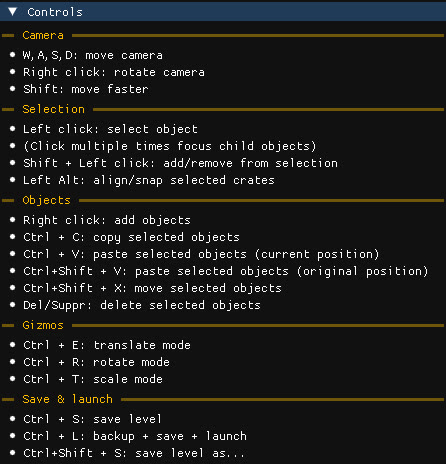
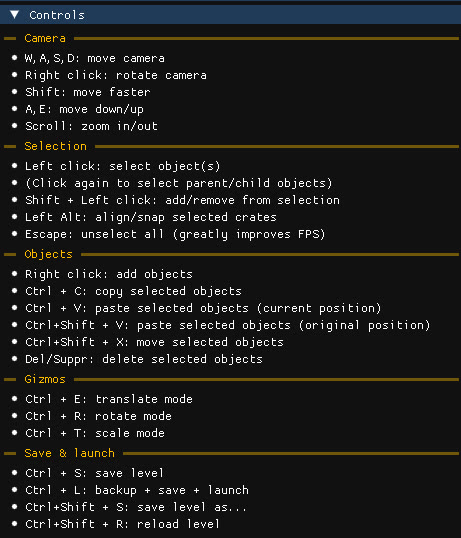
Update level editor documentation

Changed region(s): [[0.0, 0.0, 1.0, 0.9957]]

diff --git a/src/Editor/App.cs b/src/Editor/App.cs
@@ -92,6 +92,9 @@ namespace NST
                 if (ImGui.MenuItem("Open project page (Github)")) {
                     OpenURL("https://github.com/kishimisu/Crash-NST-Level-Editor");
                 }
+                if (ImGui.MenuItem("Editor documentation (Github)")) {
+                    OpenURL("https://github.com/kishimisu/Crash-NST-Level-Editor/blob/main/README_Level_Editor.md");
+                }
                 if (ImGui.MenuItem("Report an issue (Discord)")) {
                     OpenURL("https://discord.gg/vsnVrPvVjc");
                 }

diff --git a/src/Editor/SilkWindow.cs b/src/Editor/SilkWindow.cs
@@ -35,7 +35,7 @@ namespace NST
             WindowOptions options = WindowOptions.Default;
             options.WindowBorder = WindowBorder.Resizable;
             options.WindowState = WindowState.Maximized;
-            options.Title = "Crash NST Maker v1.28";
+            options.Title = "Crash NST Maker v1.28.1";
             options.API = new GraphicsAPI(ContextAPI.OpenGL, ContextProfile.Compatability, ContextFlags.Default, new APIVersion(3, 3));
 
             options.VSync = false;

diff --git a/README_Level_Editor.md b/README_Level_Editor.md
@@ -2,12 +2,18 @@
 
 - [New Level](#new-level)
 - [Level Editor](#level-editor)
+- [Controls/shortcuts](#controls)
 - [Create new objects](#create-new-objects)
-- [Object Properties](#object-properties)
-- [Custom Components](#components)
+- [Object properties](#object-properties)
+---
+- [Special objects](#special-objects)
   - [Static Models](#static-models)
   - [Spawner Templates](#spawner-templates)
-  - [Prefabs](#prefabs)
+  - [Prefab Instances](#prefab-instances)
+  - [Script Triggers](#script-triggers)
+  - [Dynamic Clips](#dynamic-clips)
+---
+- [Special components](#special-components)
   - [Splines](#splines)
   - [Trigger Volumes](#trigger-volumes)
   - [Outline Switch Crate](#outline-switch-crate)
@@ -16,7 +22,7 @@
 
 # New Level
 
-You can either create a new level from scratch or duplicate an existing level.
+You can either create a new level from scratch or duplicate an existing level:
 
 ![New Level](assets/readme/level_editor/new_level.jpg)
 
@@ -30,15 +36,14 @@ You can either create a new level from scratch or duplicate an existing level.
   - a platform with collisions
   - most common crates
 
-Choosing "`none`" also unlock these additional parameters:
+Choosing "`none`" also unlocks these additional parameters:
   - **Lighting**: Import the main lighting/ambience from another level
   - **Music**: Import the main music theme from another level (you can still import custom music later on)
   - **Mode**: Crash 1, 2 or 3 (used to create the level start & end)
 
 _basic empty template_:
 
-<img src="assets/readme/level_editor/empty_level.jpg" alt="Empty Level" width="600"/>
-
+<img src="assets/readme/level_editor/empty_level.jpg" alt="Empty Level" width="700"/>
 
 # Level Editor
 
@@ -46,10 +51,11 @@ _basic empty template_:
 
 ![Editor Settings](assets/readme/demo.gif)
 
-- You can open multiple levels at once (click on the `Home` icon in the top left or `File -> Open` after opening a first level)
-- You can select multiple objects using Shift
-- You can copy and paste selected objects (Ctrl+C / Ctrl+V) from one level editor to another
-- You can create tabs by clicking on the title of a window and dragging it over another window's title to make it easier to switch between levels
+- Open multiple levels at once (click on the `Home` icon in the top left or `File -> Open` after opening a first level)
+- Select multiple objects using Shift
+- Copy and paste selected objects (Ctrl+C / Ctrl+V) from one level editor to another
+- Use the quick-access menu (right-click) to easily import useful objects
+- Create tabs by clicking on the title of a window and dragging it over another window's title to make it easier to switch between levels
 
 You can also find the list of all objects that have already been tested here: [docs.google.com/spreadsheets/d/1jVLJTm1idsps4p5KSXfI80fT5y7HFQuSiLOLkI18K30](https://docs.google.com/spreadsheets/d/1jVLJTm1idsps4p5KSXfI80fT5y7HFQuSiLOLkI18K30/edit?usp=sharing)
 
@@ -71,15 +77,19 @@ It won't include unsaved changes.
 ## Level Infos
 
 Settings & properties for the current level.
-This option is only available for custom levels.
+These options are only available for custom levels.
 
 ![Level Infos](assets/readme/level_editor/level_infos.jpg)
 
+Level Name
 - **Name**: Level's name (appears on level load)
 - **Hint**: Level's hint (appears on level load)
+
+Level settings:
 - **Character**: Which character to use when starting the level (Crash/Coco)
 - **Crash Mode**: The current Crash version (affects the pause menu style and the level start/end)
-- **Time Trial**: Times for the platinum, gold and sapphire relics
+- **Gameplay Mode**: The starting gameplay mode/vehicle (Traditional, Swimming, Motorbike, Jetski, Plane)
+- **Enable Ride**: Whether to enable special objects for this level (they won't work otherwise)
 
 ## Editor Settings
 
@@ -105,24 +115,31 @@ Contains the list of all objects in the level, grouped by type. Click on an elem
 
 ![Objects](assets/readme/level_editor/objects.jpg)
 
-3D Entities:
+3D Game Objects:
 
-- **Static Objects**: Contains static entities, which represent most of the level's geometry and can have baked-in collisions (See [#static objects](#static-models))
-- **Prefabs**: Contains all instanciated prefab entities (See [#prefabs](#prefabs))
-- **Crates**: Contains all crates in the level
-- **Splines**: Contains all spline entities (See [#splines](#splines))
-- **Player Start**: Contains the player start entity (where the character is spawned when starting the level)
+- **Static Objects**: Contains static models, which represent most of the level's geometry and can have baked-in collisions (See [#static models](#static-models))
+- **Prefabs**: Contains all instanciated prefab entities (See [#prefabs](#prefab-instances))
 - **CEntity / CGameEntity / CPhysicalEntity**: Contains most of the level's game objects (enemies, hazards, obstacles... see [#spawner templates](#spawner-templates))
 - **CActor**: Contains character entities (bosses and advanced enemies...)
+- **Crates**: Contains all crates in the level
+- **Collectibles**: Contains all collectibles in the level
 
-Objects without a model:
-(these appear as colored cubes in the level editor)
+Other Game Objects:
 
-- **CScriptTriggerEntity**: Contains trigger entities (activates something when the player enters its bounds)
-- **CDynamicClipEntity**: Contains clipping entities (invisible boxes that collide with the player)
-- **Other**: Contains all other entities without a model such as VFX, SFX or area effects
+- **Player Start**: Contains the player start entity (where the character is spawned when starting the level)
+- **Triggers**: Contains `CScriptTriggerEntity` objects (see [#script triggers](#script-triggers))
+- **Clips**: Contains `CDynamicClipEntity` objects (see [#dynamic clips](#dynamic-clips))
 - **Cameras**: Contains all types of cameras
 - **CameraBox**: Contains camera transitions
+
+Other:
+
+- **Lighting**: Contains light sources and visual boxes
+- **VFX**: Contains visual effects
+- **SFX**: Contains sound effects and music
+- **Other**: Contains all other entities without a model, such as the WorldInstance
+
+Hidden:
 - **Templates**: Spawner templates (see [#spawner templates](#spawner-templates))
 - **Hidden**: Hidden objects
 
@@ -140,12 +157,11 @@ This is where you can move around in the level, select one or multiple objects, 
 
 <img src="assets/readme/level_editor/qa_crates.jpg" alt="Create crates" height="400"/>
 
-
 Use the quick-access menu (right-click) to create various objects:
 - **New Crate**: Create all types of crates
 - **New Collectible**: Create all types of collectibles
-- **New Platform**: Create new gem platforms, path platforms and teleporters
-- **New Vehicle**: Create new vehicles (Jet Board)
+- **New Platform**: Create new platforms and teleporters
+- **New Vehicle**: Create new vehicles (Jet Board, Baby TRex, Hog, Bear, Tiger, Jetpack)
 - **New Bonus Round**: Import a bonus round from C1 (tawna/brio/cortex) or any bonus round from C2/C3
 - **New Camera**: Create a new camera (Relative Camera, Spline Camera or Free Camera) or a new camera transition zone
 - **Other**: Create other useful objects (Death Trigger, Invisible Walls...)
@@ -154,7 +170,9 @@ Use the quick-access menu (right-click) to create various objects:
 
 Contains every editable property for the currently selected object.
 
-The first line contains the object's type and name, the second line contains its parent file (click to open)
+The first line contains the object's type and name, the second line contains the parent file name (click to open)
+
+If the object has any parent or children, they will also be displayed (click to focus)
 
 ![Object Transform](assets/readme/level_editor/object_transform.jpg)
 
@@ -163,18 +181,20 @@ The first line contains the object's type and name, the second line contains its
 Edit the position, rotation and scale of the object.
 Note that you can also do this using the 3D gizmos (Ctrl+E to translate, Ctrl+R to rotate, Ctrl+T to scale)
 
-- `Click & drag` to edit values like a slider
+- `Click & drag` to edit values like a slider (use shift, ctrl or alt to change the speed)
 - `Double click` to manually input values
 - Click the icon on the right to copy/paste values
+
+When applicable, the object's model can also be changed via a dropdown containing the list of all currently loaded models across level editors.
 
 ### Components
 
 This is where the object's behavior, model, animations, sounds, properties and so on... are defined.
-You can copy, paste, delete or replace components between difference objects.
+You can copy, paste, delete or replace components between different objects.
 
 ![Object Components](assets/readme/level_editor/object_components.jpg)
 
-You can find the list of components at the top, and the currently selected component at the bottom.
+The list of all components is located at the top, and the currently selected component at the bottom.
 
 - Click on the checkbox on the right to enable/disable a component
 - `Click` on a component to select it
@@ -185,29 +205,41 @@ You can also copy/paste values from a component to another instead of pasting it
 
 ![Object Components Paste](assets/readme/level_editor/object_components_paste.jpg)
 
-# Special components
+# Special objects
 
 ## Static models
 
-<img src="assets/readme/level_editor/c_static.jpg" alt="Static models" width="600"/>
+These objects represent most of the level's geometry and can have baked-in collisions.
+
+<img src="assets/readme/level_editor/c_static.jpg" alt="Static models" width="700"/><br>
 
 Static models always have 3 components:
 
-- `CModelComponent`: used to change the object's model
-- `CStaticComponent`: used to change the object's visibility
-- `CStaticCollisionComponent`: used to enable or disable collisions for the object. If the option is greyed out, it means that this object doesn't come with baked-in collisions.
+- `CModelComponent`: can be used to change the object's model
+- `CStaticComponent`: can be used to change the object's visibility
+- `CStaticCollisionComponent`: can be used to enable or disable collisions for the object. If the option is greyed out, it means that this object doesn't come with baked-in collisions.
 
 ## Spawner Templates
 
-<img src="assets/readme/level_editor/c_template.jpg" alt="Template Spawners" width="600"/>
+These objects are responsible for spawning most entities in the game (crates, enemies, platforms...)
 
-This is what is responsible for spawning most objects in the game other than static models (crates, enemies, platforms...)
+<img src="assets/readme/level_editor/c_template.jpg" alt="Template Spawners" width="700"/><br>
 
-Objects with this component are called "Spawners", and they reference a "Template" object, which is the object that is actually spawned and that contains all the advanced properties. 
+You can spot them by their `Spawner_Template` component, which is selected and expanded by default.
 
-The spawner usually only contains very few components and is mainly used to set the position and rotation for spawning the underlying template.
+Objects with this component are called "Spawners", and they reference a "Template" object, which is the object that is actually spawned and that contains all the advanced properties.
 
-## Prefabs
+The spawner itself usually contains very few components (such as splines or trigger volumes) and is mainly used to set the position and rotation for spawning the underlying template.
+
+Template objects are hidden by default because their position is meaningless (it's the parent spawner that defines the spawn point). However for some very specific enemies, the position of the template is actually meaningful, this is why you can enable them using `Editor settings -> Visible Camera Layers -> Templates`
+
+<img src="assets/readme/level_editor/templates.jpg" alt="Templates" width="700"/><br>
+
+Templates with multiple references:
+
+If a template has multiple parents, updating it from its parent spawner (using the `Spawner_Template` component) instead of directly from the template will result in a copy of the template being made first, such that no other spawner is affected by that change.
+
+## Prefab Instances
 
 Prefabs are a special type of objects as they reference a group of child objects that is reused across all instances of the same prefab.
 
@@ -218,15 +250,46 @@ without affecting any other instance.
 
 - **Edit prefab child**: However if you click a second time on a child object (2nd picture), you'll see that every occurence of this object in other instances becomes highlighted. You now have control over the child object inside the prefab, you can still copy/paste, move and delete it but this will reflect across all other prefab instances.
 
-<img src="assets/readme/level_editor/prefab0.jpg" alt="Prefab instance" width="600"/>
-<img src="assets/readme/level_editor/prefab1.jpg" alt="Prefab child" width="600"/>
+<img src="assets/readme/level_editor/prefab0.jpg" alt="Prefab instance" width="700"/>
+<img src="assets/readme/level_editor/prefab1.jpg" alt="Prefab child" width="700"/>
+
+## Script Triggers
+
+`CScriptTriggerEntity` objects are invisible boxes that trigger an action for one or multiple other objects when the player enters its bounds. 
+
+They're pretty flexible, they can either be a parent or a child of the object to trigger, and can reference/be referenced by multiple objects.
+
+<img src="assets/readme/level_editor/triggers.jpg" alt="Triggers" width="700"/><br>
+
+Among other things, they are used with [Spawner Templates](#spawner-templates) to trigger the actual spawn or make the object active. This is done for performance reasons, so that not all objects are loaded at once, but they can also be used to trigger other effects or behaviors.
+
+Most of the time if you have an issue where an object doesn't spawn in-game but appears fine in the editor, it's because of a misplaced trigger volume.
+
+They're hidden by default to improve visibility, but you can enable them using `Editor settings -> Visible Camera Layers -> Triggers`.
+
+Trigger and child selection:
+- `Click` on a trigger to select all of its children
+- `Click twice` on a trigger to select it individually
+- `Click twice` on an entity to select all of its parent triggers
+
+Trigger and child copy/paste:
+- `Copy/paste` child entities (without selecting any trigger) will add the new objects to the previous triggers
+- `Copy/paste` child entities + their parent triggers will add the new objects to the new triggers
+
+## Dynamic Clips
+
+`CDynamicClipEntity` objects are invisible boxes that collide with the player (and/or enemies), acting as invisible walls/floors.
+
+<img src="assets/readme/level_editor/clips.jpg" alt="Clips" width="700"/><br>
+
+# Special components
 
 ## Splines
 
-Splines are a special type of component that represent a path made of positions and rotations.
+`CSplineComponent` are a special type of component that represent a path made of positions and rotations.
 They are primarily used for camera paths and enemy/platforms movement.
 
-<img src="assets/readme/level_editor/spline.jpg" alt="Spline" width="700"/>
+<img src="assets/readme/level_editor/spline.jpg" alt="Spline" width="700"/><br>
 
 The GUI for the spline component consists of up to 4 sections:
 
@@ -253,27 +316,26 @@ The controls points (positions) are always visible in the 3D scene, however the 
 
 ## Trigger Volumes
 
-<img src="assets/readme/level_editor/c_trigger.jpg" alt="Trigger Volume" width="600"/>
+`CTriggerVolumeBox` components are similar to [Script Triggers](#script-triggers) objects as they define a 3D bounding box that triggers an event.
 
+However, unlike script triggers which are separate objects, trigger volume components are part of the object to trigger. They are only visible when the component is selected.
 
-This component is similar to `CScriptTriggerEntity` objects as it defines a 3D bounding box that triggers an event.
-
-However, unlike `CScriptTriggerEntity` which are separate objects, `CTriggerVolumeBox` components are part of the triggered object. They are only visible when the component is selected.
+<img src="assets/readme/level_editor/c_trigger.jpg" alt="Trigger Volume" width="700"/>
 
 ## Outline Switch Crate
 
-<img src="assets/readme/level_editor/c_outline.jpg" alt="Outline Switch Crate" width="600"/>
-
 Outline switch crates have a custom GUI where you can add, remove or change children outlined crates.
+
+<img src="assets/readme/level_editor/c_outline.jpg" alt="Outline Switch Crate" width="700"/>
 
 ## Checkpoint Text
 
-<img src="assets/readme/level_editor/c_checkpoint.jpg" alt="Checkpoint Text" width="600"/>
-
 It's possible to change the text that is displayed when breaking checkpoints, along with some other properties
+
+<img src="assets/readme/level_editor/c_checkpoint.jpg" alt="Checkpoint Text" width="700"/>
 
 ## On Start Music
 
-<img src="assets/readme/level_editor/c_music.jpg" alt="On Start Music" width="300"/>
-
 You can listen to the default music, and import your own audio files (.mp3) using this component.
+
+<img src="assets/readme/level_editor/c_music.jpg" alt="On Start Music" width="300"/>
